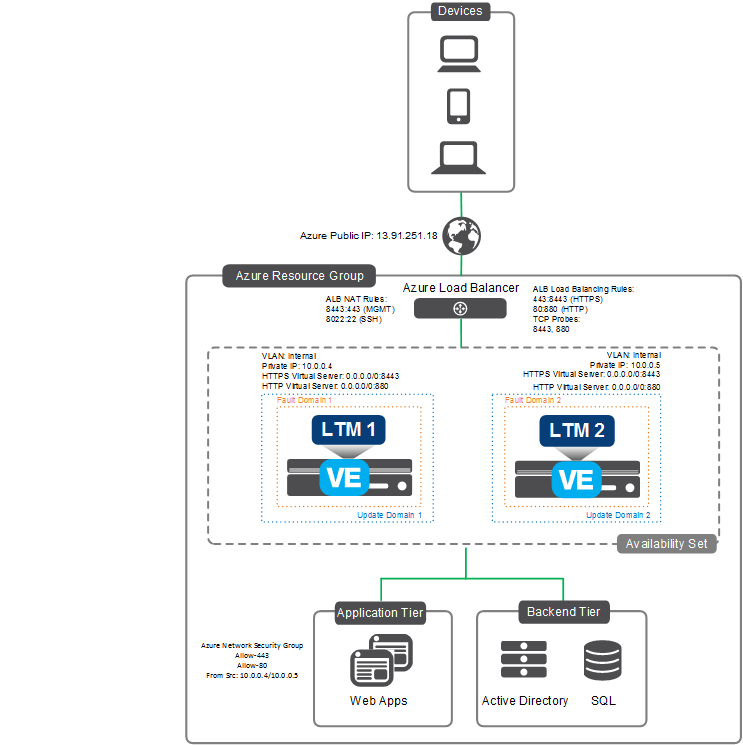
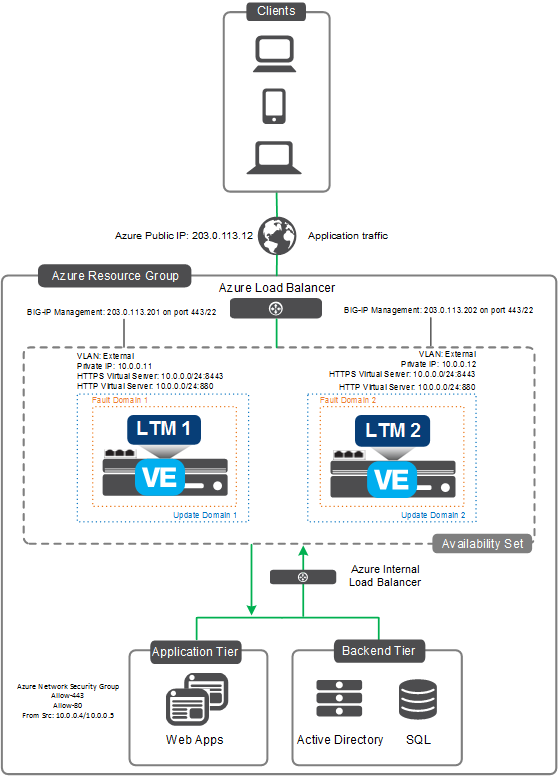
update to experimental cluster 3nic and marketplace waf readme files

Changed region(s): [[0.0, 0.0, 1.0, 1.0]]

diff --git a/supported/solutions/marketplace/waf/README.md b/supported/solutions/marketplace/waf/README.md
@@ -148,12 +148,12 @@ Update your DNS records to point to the WAF public IP address.
 Then, you can finalize the WAF by allowing traffic from the WAF to access your application servers and the Azure Load Balancer in front of your applications. You must also deny traffic from the internet.  If you launched the WAF from the Security Center, you receive a recommendation to finalize the WAF.  If you launch from the Marketplace, you do not see the recommendation, but still must finalize the WAF using the following guidance.
 
 1. In the Azure portal, open the Network Security Group associated with your application.
-2. Click the Inbound security rules label.
+2. Click the **Inbound security rules** label.
 3. Note the priority number for each existing rule. You are going to create at least three new rules for each application, and they must be higher priority (lower numbers) than the existing rules.
 
 Note: The lowest number you can use is 100. If 100, 101, and 102 are already in use, you must re-create existing rules and assign a higher number to each, so that these numbers are available.
 
-4. On the Inbound security rules blade, click Add.
+4. On the **Inbound security rules** blade, click Add.
 5. Allow the WAF to access the application server.
 
 | Option | Description |
@@ -161,13 +161,13 @@ Note: The lowest number you can use is 100. If 100, 101, and 102 are already in 
 | Name | A unique, descriptive name for the rule, for example allow_http_waf_appsrv0. |
 | Priority | A unique priority that is lower than any other security rule. |
 | Source | Choose CIDR block. |
-| Source IP address range	 | The public IP address of the Azure Load Balancer in front of the WAF devices, in CIDR notation. For example, if the IP address is 52.160.108.42, you would enter 52.160.108.42/32. You can find the public IP address in the resource group for the WAF; it is usually named waf-pip. |
+| Source IP address range	 | Add at least two source IP addresses separated by commas:  1) The public IP address of the Azure Load Balancer in front of the WAF devices, in CIDR notation. For example, if the IP address is 52.160.108.42, you would enter 52.160.108.42/32. You can find the public IP address in the resource group for the WAF; it is usually named **waf-pip**.  2) The public IP address(es) of the BIG-IP VE management interface(s).  The public IPs of the management interfaces end with **-mgmt-pip0** through **-mgmt-pip3**. |
 | Service	| The service on the application server, for example HTTP or HTTPS. |
 | Protocol | Choose TCP. |
 | Port range | The TCP port on which your application server listens for traffic, for example, 80. |
 | Action | Choose Allow. |
 
-8. Click OK.
+8. Click **OK**.
 
 9. Allow the WAF to access the Azure Load Balancer in front of your application servers.
 
@@ -182,7 +182,7 @@ Note: The lowest number you can use is 100. If 100, 101, and 102 are already in 
 | Port range | The TCP port on which your application server listens for traffic, for example, 80. |
 | Action | Choose Allow. |
   
-10. Click OK.
+10. Click **OK**.
 11. Deny internet traffic from getting to the application server.
 
 | Option | Description |
@@ -196,7 +196,7 @@ Note: The lowest number you can use is 100. If 100, 101, and 102 are already in 
 | Port range | The TCP port on which your application server listens for traffic, for example, 80. |
 | Action | Choose Deny. |
 
-12. Click OK.
+12. Click **OK**.
 
 Repeat these steps for each application server in the deployment.
 
@@ -344,8 +344,8 @@ Copyright 2014-2017 F5 Networks Inc.
 ## License
 
 
-Apache V2.0
-~~~~~~~~~~~
+### Apache V2.0
+
 Licensed under the Apache License, Version 2.0 (the "License"); you may not use
 this file except in compliance with the License. You may obtain a copy of the
 License at
@@ -358,7 +358,7 @@ WITHOUT WARRANTIES OR CONDITIONS OF ANY KIND, either express or implied.
 See the License for the specific language governing permissions and limitations
 under the License.
 
-Contributor License Agreement
-~~~~~~~~~~~~~~~~~~~~~~~~~~~~~
+### Contributor License Agreement
+
 Individuals or business entities who contribute to this project must have
 completed and submitted the [F5 Contributor License Agreement](http://f5-openstack-docs.readthedocs.io/en/latest/cla_landing.html).

diff --git a/experimental/cluster/3nic/existing_stack/README.md b/experimental/cluster/3nic/existing_stack/README.md
@@ -19,7 +19,9 @@
 
 This solution uses an ARM template to launch a three NIC deployment of a cloud-focused BIG-IP VE cluster (Active/Active) in Microsoft Azure. It also allows you to choose to deploy the HA cluster with or without network failover enabled. With network failover disabled, the cluster is created in a limited *Active/Active* configuration and traffic groups are not available; consequently, you cannot use connection, persistence, or session mirroring.  
 
-When network failover is enabled, the cluster is configured in a traditional *Active/Standby* mode. Alternately, you can configure multiple traffic groups in the traditional *Active/Active* mode to allow each device to process traffic for the traffic group to which it is associated. In both of these network failover modes, Azure load balancer probes determine which BIG-IP VE device will receive application traffic. Mirroring and failover are available in both scenarios.
+When network failover is enabled, the cluster is configured in a traditional *Active/Standby* mode. Alternately, you can configure multiple traffic groups in the traditional *Active/Active* mode to allow each device to process traffic for the traffic group to which it is associated. In both of these network failover modes, Azure load balancer probes determine which BIG-IP VE device will receive application traffic. Mirroring and failover are available in both scenarios. 
+
+This template also configures an all-protocol internal Azure Load Balancer (ILB) for forwarding traffic to the internal interfaces of the BIG-IP VE devices.  You can configure the next hop on Azure User Defined Routes (UDRs) to point to the private IP address of the ILB.  Deploy an IP forwarding virtual server on BIG-IP VE to accept this traffic and forward it to the destination.  Note: The all-protocol ILB is currently only available in preview; you must sign up through Microsoft to enable this functionality before deploying the template.
 
 **Networking Stack Type:** This template deploys into an existing networking stack; the networking infrastructure must be available prior to deploying. See the [Template Parameters Section](#template-parameters) for required networking objects.
 

diff --git a/experimental/cluster/3nic/new_stack/README.md b/experimental/cluster/3nic/new_stack/README.md
@@ -19,7 +19,9 @@
 
 This solution uses an ARM template to launch a three NIC deployment of a cloud-focused BIG-IP VE cluster (Active/Active) in Microsoft Azure. It also allows you to choose to deploy the HA cluster with or without network failover enabled. With network failover disabled, the cluster is created in a limited *Active/Active* configuration and traffic groups are not available; consequently, you cannot use connection, persistence, or session mirroring.  
 
-When network failover is enabled, the cluster is configured in a traditional *Active/Standby* mode. Alternately, you can configure multiple traffic groups in the traditional *Active/Active* mode to allow each device to process traffic for the traffic group to which it is associated. In both of these network failover modes, Azure load balancer probes determine which BIG-IP VE device will receive application traffic. Mirroring and failover are available in both scenarios.
+When network failover is enabled, the cluster is configured in a traditional *Active/Standby* mode. Alternately, you can configure multiple traffic groups in the traditional *Active/Active* mode to allow each device to process traffic for the traffic group to which it is associated. In both of these network failover modes, Azure load balancer probes determine which BIG-IP VE device will receive application traffic. Mirroring and failover are available in both scenarios. 
+
+This template also configures an all-protocol internal Azure Load Balancer (ILB) for forwarding traffic to the internal interfaces of the BIG-IP VE devices.  You can configure the next hop on Azure User Defined Routes (UDRs) to point to the private IP address of the ILB.  Deploy an IP forwarding virtual server on BIG-IP VE to accept this traffic and forward it to the destination.  Note: The all-protocol ILB is currently only available in preview; you must sign up through Microsoft to enable this functionality before deploying the template.
 
 **Networking Stack Type:** This solution deploys into a new networking stack, which is created along with the solution.
 
